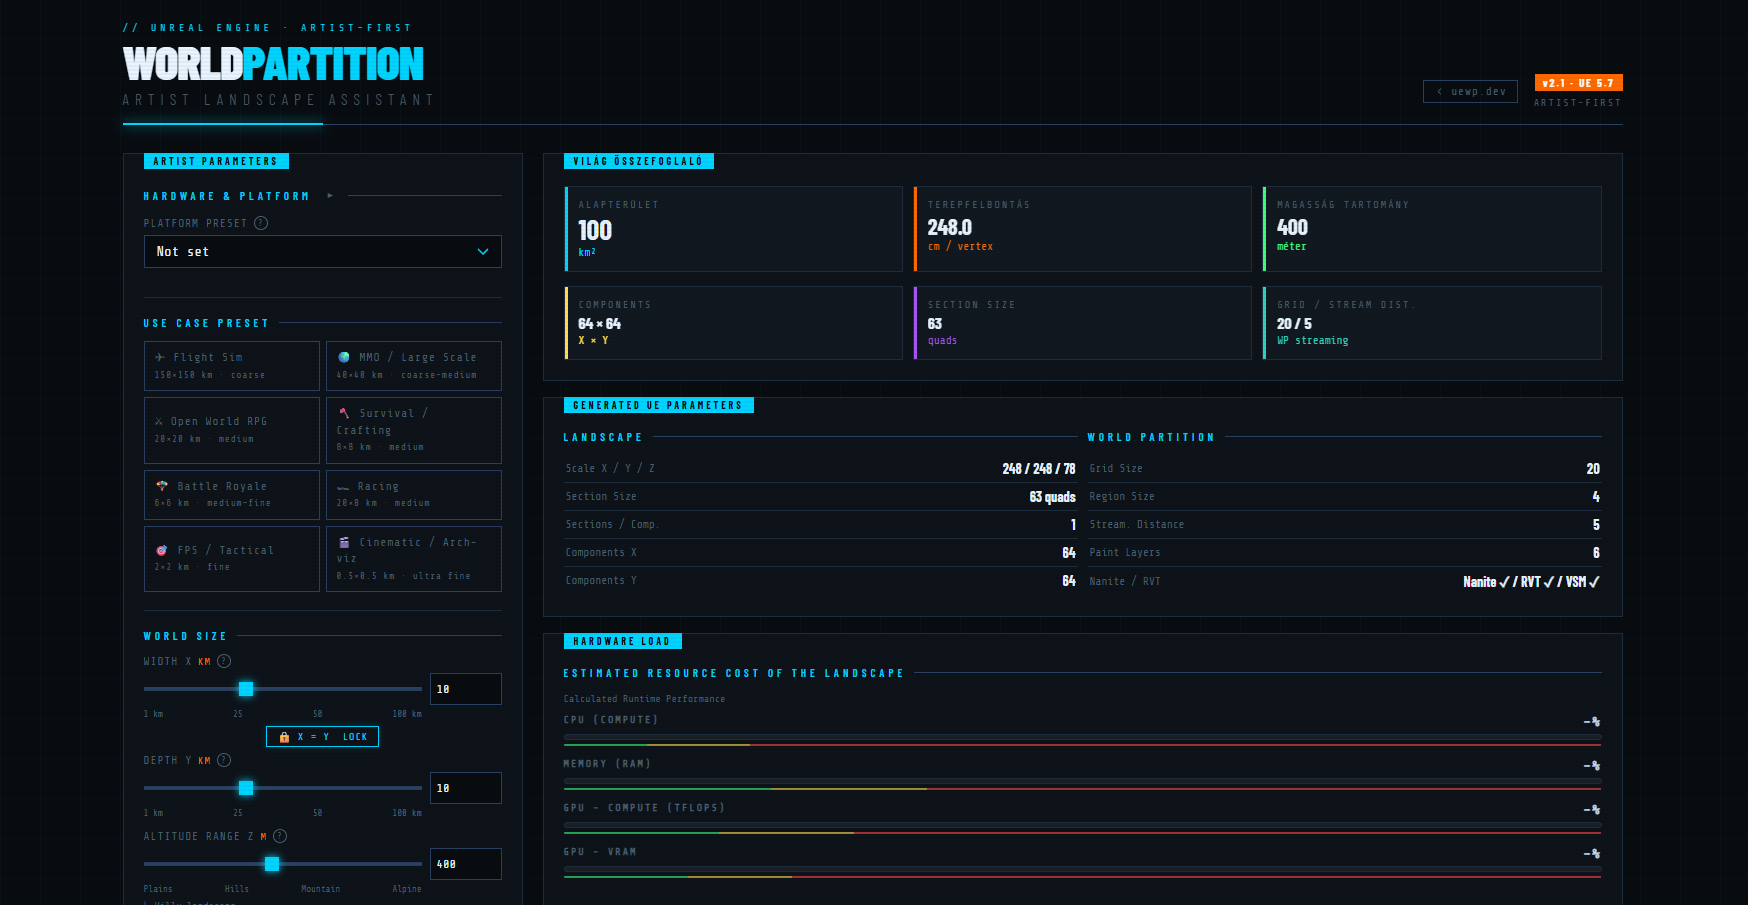
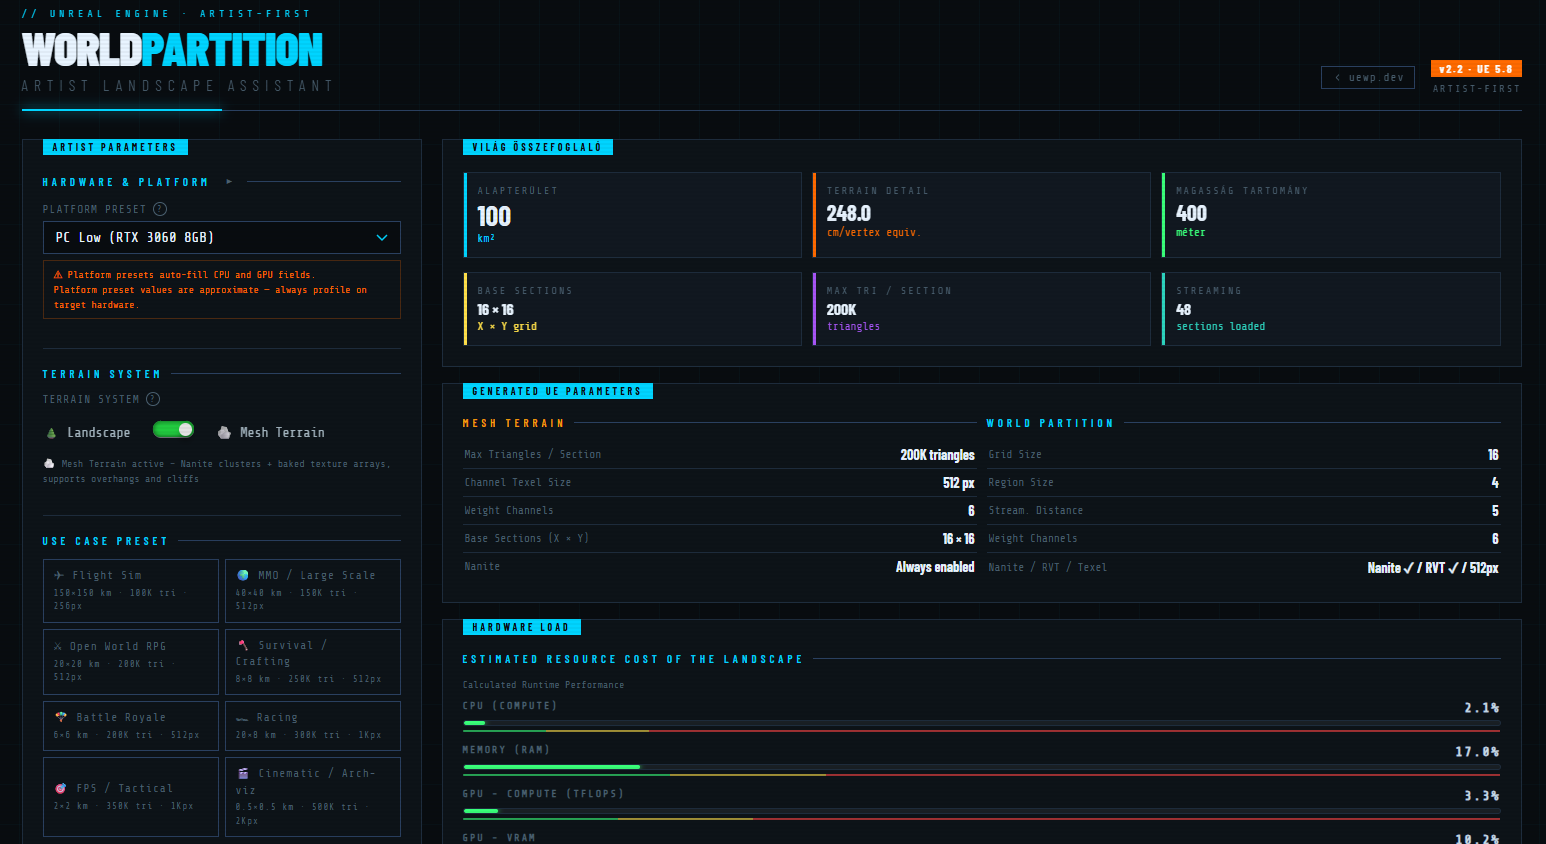
Add files via upload

diff --git a/README.md b/README.md
@@ -1,8 +1,8 @@
-# UE5 World Partition Landscape Calculator
+# UE5 World Partition Landscape & Mesh Terrain Calculator
 
 > **Live site:** [uewp.dev](https://uewp.dev)
 
-A real-time, browser-based technical calculator for **Unreal Engine 5 World Partition Landscape** planning. No installation, no backend — everything runs client-side in a single page.
+A real-time, browser-based technical calculator for **Unreal Engine 5 World Partition Landscape & Mesh Terrain** planning. No installation, no backend — everything runs client-side in a single HTML page.
 
 ---
 
@@ -18,6 +18,7 @@ When designing large open-world landscapes in Unreal Engine 5, you need to balan
 
 ### Configurator (`index.html`)
 
+- **Dual Terrain Modes** — Toggle between classic **Landscape** (heightfield-based) and **Mesh Terrain** (UE 5.8+, Nanite clusters + baked texture arrays) with mode-specific UI and calculations
 - **Platform Presets** — One-click hardware profiles (PC, console, mobile) that auto-fill CPU/GPU/RAM fields
 - **World Partition grid** — Configure streaming cell grid size, region size and streaming distance
 - **Landscape scale & components** — X/Y/Z scale, section size, sections-per-component, quick presets (4×4 → 128×128)
@@ -69,7 +70,7 @@ A streamlined, artist-friendly view that exposes only the most relevant paramete
 
 | Version | UE Target | Status |
 |---|---|---|
-| v2.1 | UE 5.7 | ✅ Live |
+| v2.2 | UE 5.7+ | ✅ Live |
 
 ---
 
@@ -88,6 +89,5 @@ See [LICENSE](LICENSE) for full details.
 The source code is **not published** in this repository. This repo exists for changelog, legal documentation and public reference purposes only.
 
 If you have questions or feedback, open an [issue](../../issues).
-
 
 

diff --git a/CHANGELOG.md b/CHANGELOG.md
@@ -4,6 +4,26 @@ All notable changes to **uewp.dev — UE5 World Partition Landscape Calculator**
 
 ---
 
+## [2.2] — 2026-04 · UE 5.7+
+
+### Added
+- **Mesh Terrain mode** (UE 5.8+ Experimental) — full support for non-destructive static mesh terrain with Nanite clusters and baked texture arrays
+- **Terrain type toggle** — switch between Classic Landscape and Mesh Terrain in the Configurator with automatic UI adjustment per mode
+- **Mesh Terrain input controls** — Max Triangles per Section, Channel Texel Size, Weight Channels
+- **Mesh Terrain result cards** — Base Sections, Loaded Sections, Max Tri/Section, Nanite Geometry VRAM, Baked Texture Arrays, and Cook Time estimates
+- **Artist Mode Mesh Terrain support** — terrain type persistence in URL hash, MT-specific parameters (mtTri, mtTexel) encoded in share links
+- **Bidirectional terrain conversion** — switching modes automatically converts component/section values to matching ranges
+
+### Changed
+- UE target updated to 5.7+ (Mesh Terrain requires UE 5.8+)
+- RVT VRAM calculation now uses pool-based estimation matching UE5's actual behavior
+- Calculation refinements for CPU, VRAM and resource budget estimates across both terrain modes
+
+### Fixed
+- Component count values now correctly restore when switching between terrain modes
+
+---
+
 ## [2.1] — 2026-03 · UE 5.7
 
 ### Added
